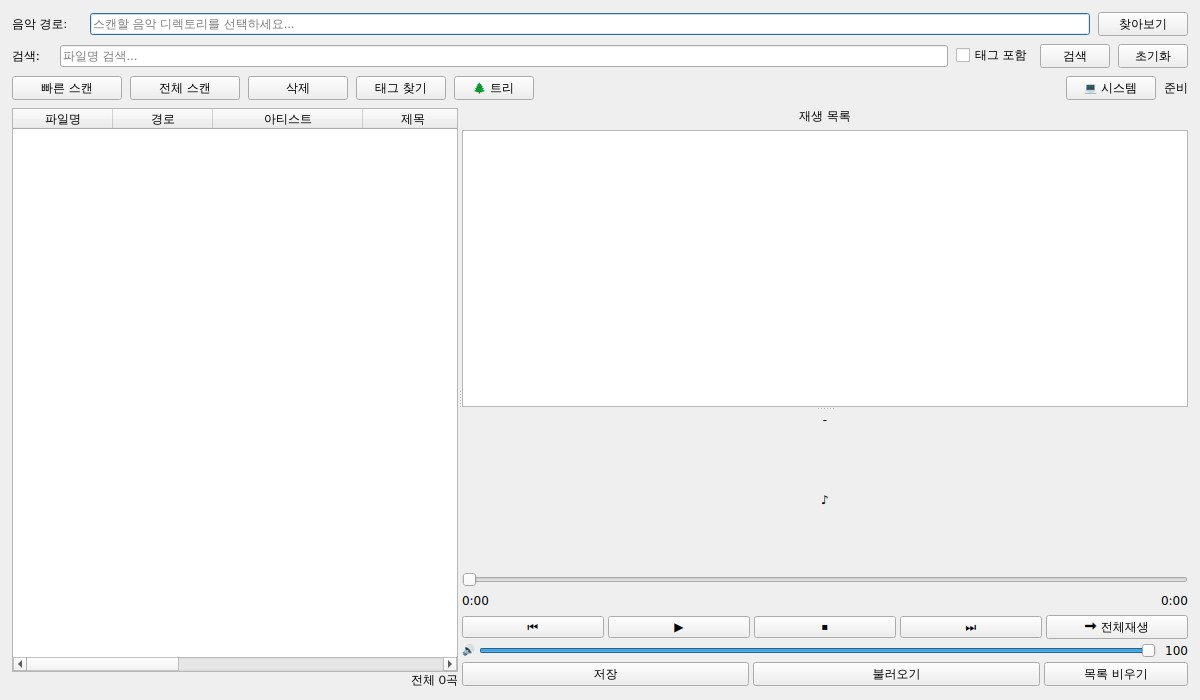
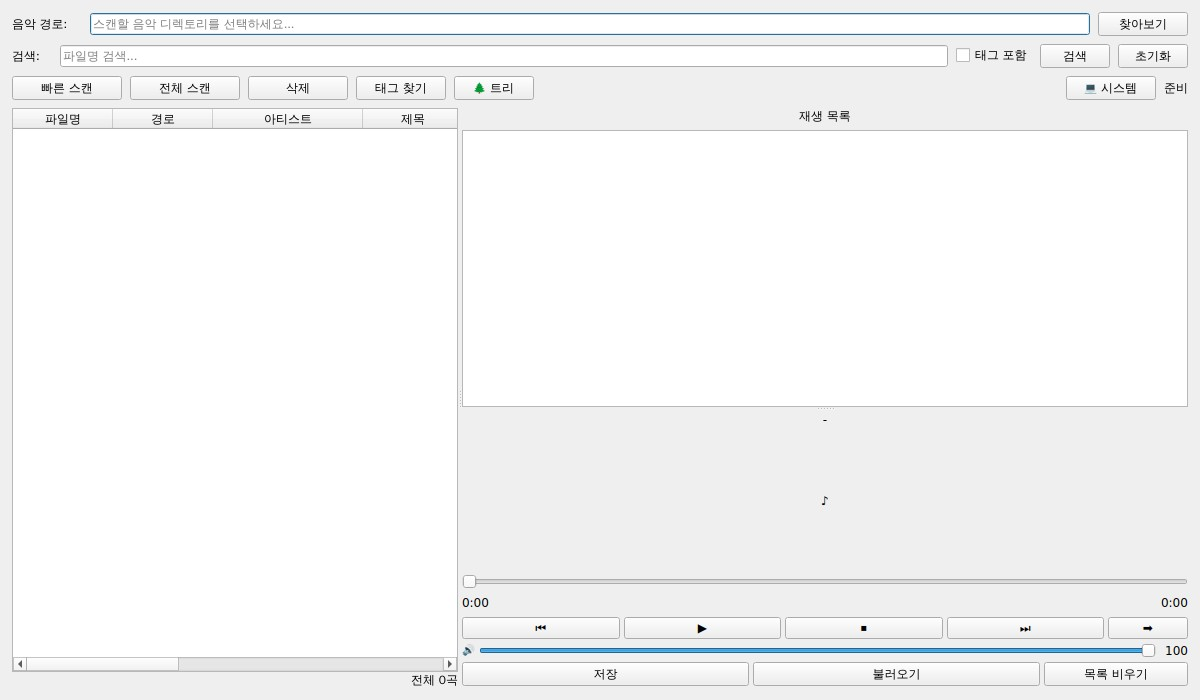
main_window: show symbol-only play-mode btn; set transport stretch ratios
Remove text labels from btn_play_mode so only the mode symbol is shown
(➡ / 🔂 / 🔁 / 🔀); text takes unnecessary space now that the button
sits inline with the other transport controls.

Set horizontal stretch ratios for all five playerButtonLayout buttons:
prev 4 : play 4 : stop 4 : next 4 : play_mode 2, so the mode indicator
is proportionally narrower than the four transport buttons.

Update test_button_label_updates_with_mode to expect symbol-only labels.

https://claude.ai/code/session_01YFDPmPzoyxfymLkiNHqsrJ

Changed region(s): [[0.37, 0.81, 0.9867, 0.93], [0.4933, 0.87, 0.5242, 0.93], [0.4317, 0.87, 0.4625, 0.9]]

diff --git a/src/main_window.py b/src/main_window.py
@@ -1096,10 +1096,10 @@ class MainWindow(QMainWindow):
         Updates the button label to reflect the active mode.
         """
         _modes = [
-            ("sequential",  "➡ 전체재생"),
-            ("repeat_one",  "🔂 한곡반복"),
-            ("repeat_all",  "🔁 전체반복"),
-            ("shuffle",     "🔀 랜덤"),
+            ("sequential",  "➡"),
+            ("repeat_one",  "🔂"),
+            ("repeat_all",  "🔁"),
+            ("shuffle",     "🔀"),
         ]
         keys = [m[0] for m in _modes]
         idx = (keys.index(self._play_mode) + 1) % len(_modes)

diff --git a/test/test_main_window.py b/test/test_main_window.py
@@ -939,10 +939,10 @@ class TestPlayMode(unittest.TestCase):
         """Verify that the button label matches the active mode."""
         win = self._make_window()
         labels = {
-            "repeat_one": "🔂 한곡반복",
-            "repeat_all": "🔁 전체반복",
-            "shuffle":    "🔀 랜덤",
-            "sequential": "➡ 전체재생",
+            "repeat_one": "🔂",
+            "repeat_all": "🔁",
+            "shuffle":    "🔀",
+            "sequential": "➡",
         }
         for _ in range(4):
             win.btn_play_mode.click()